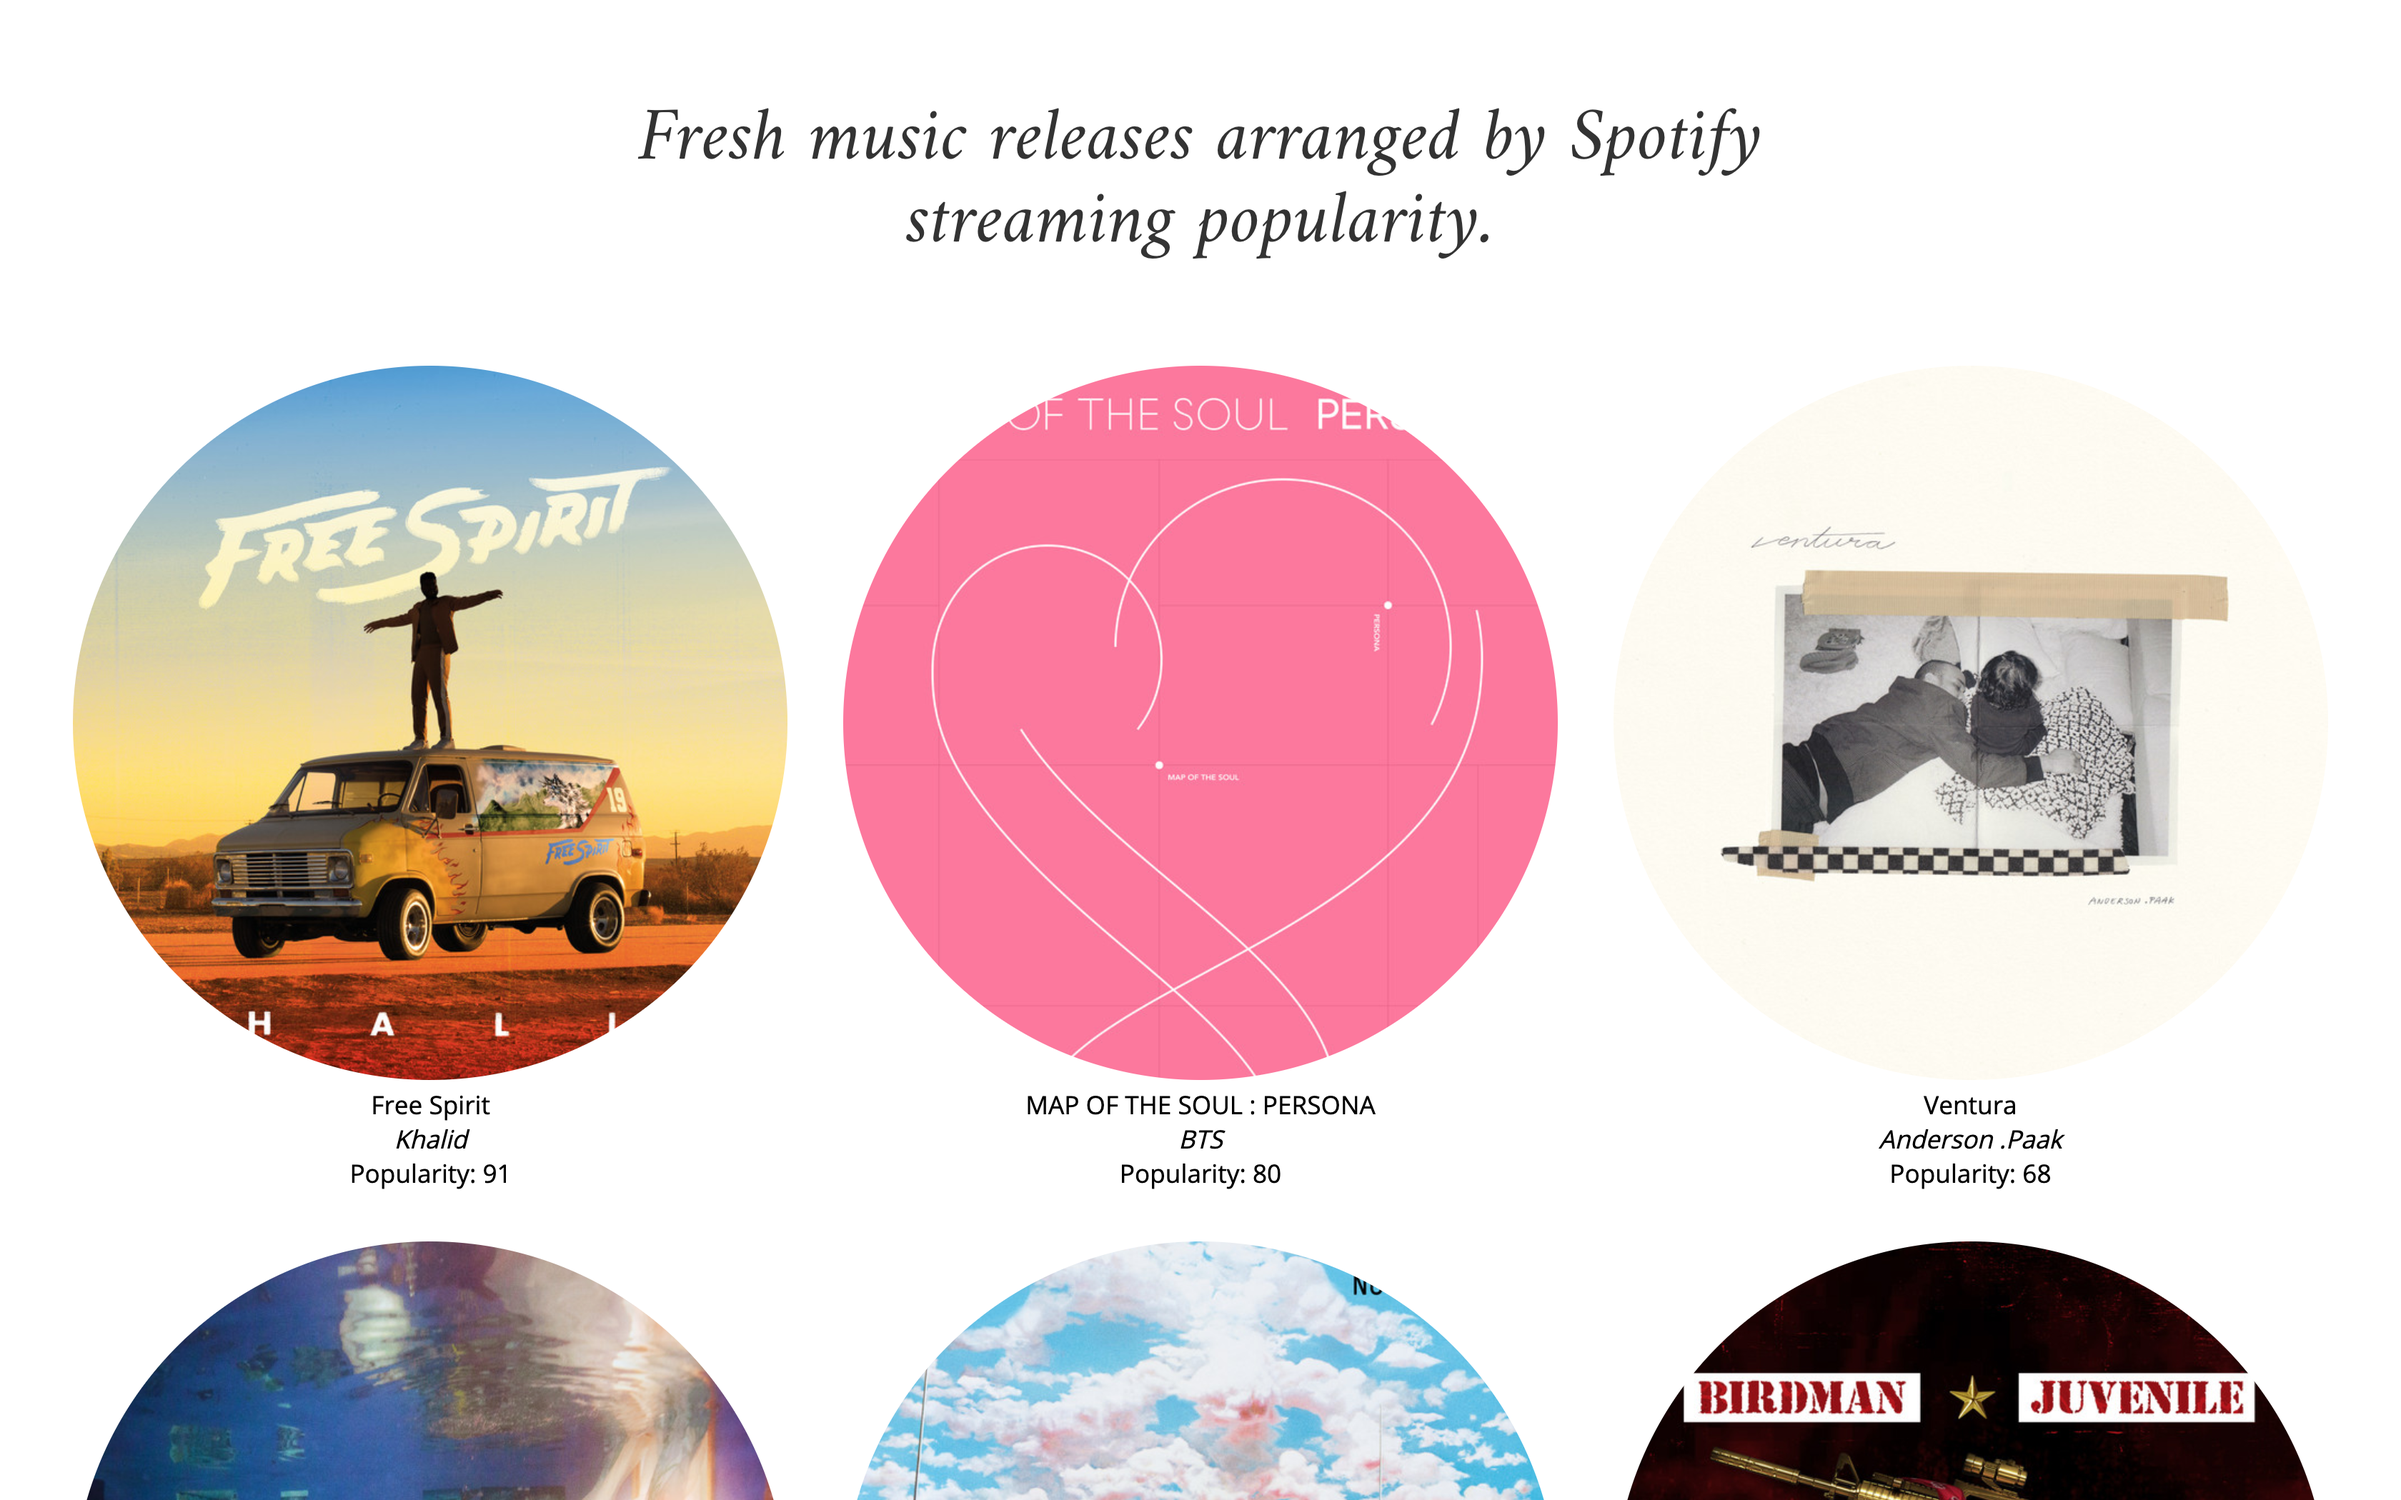
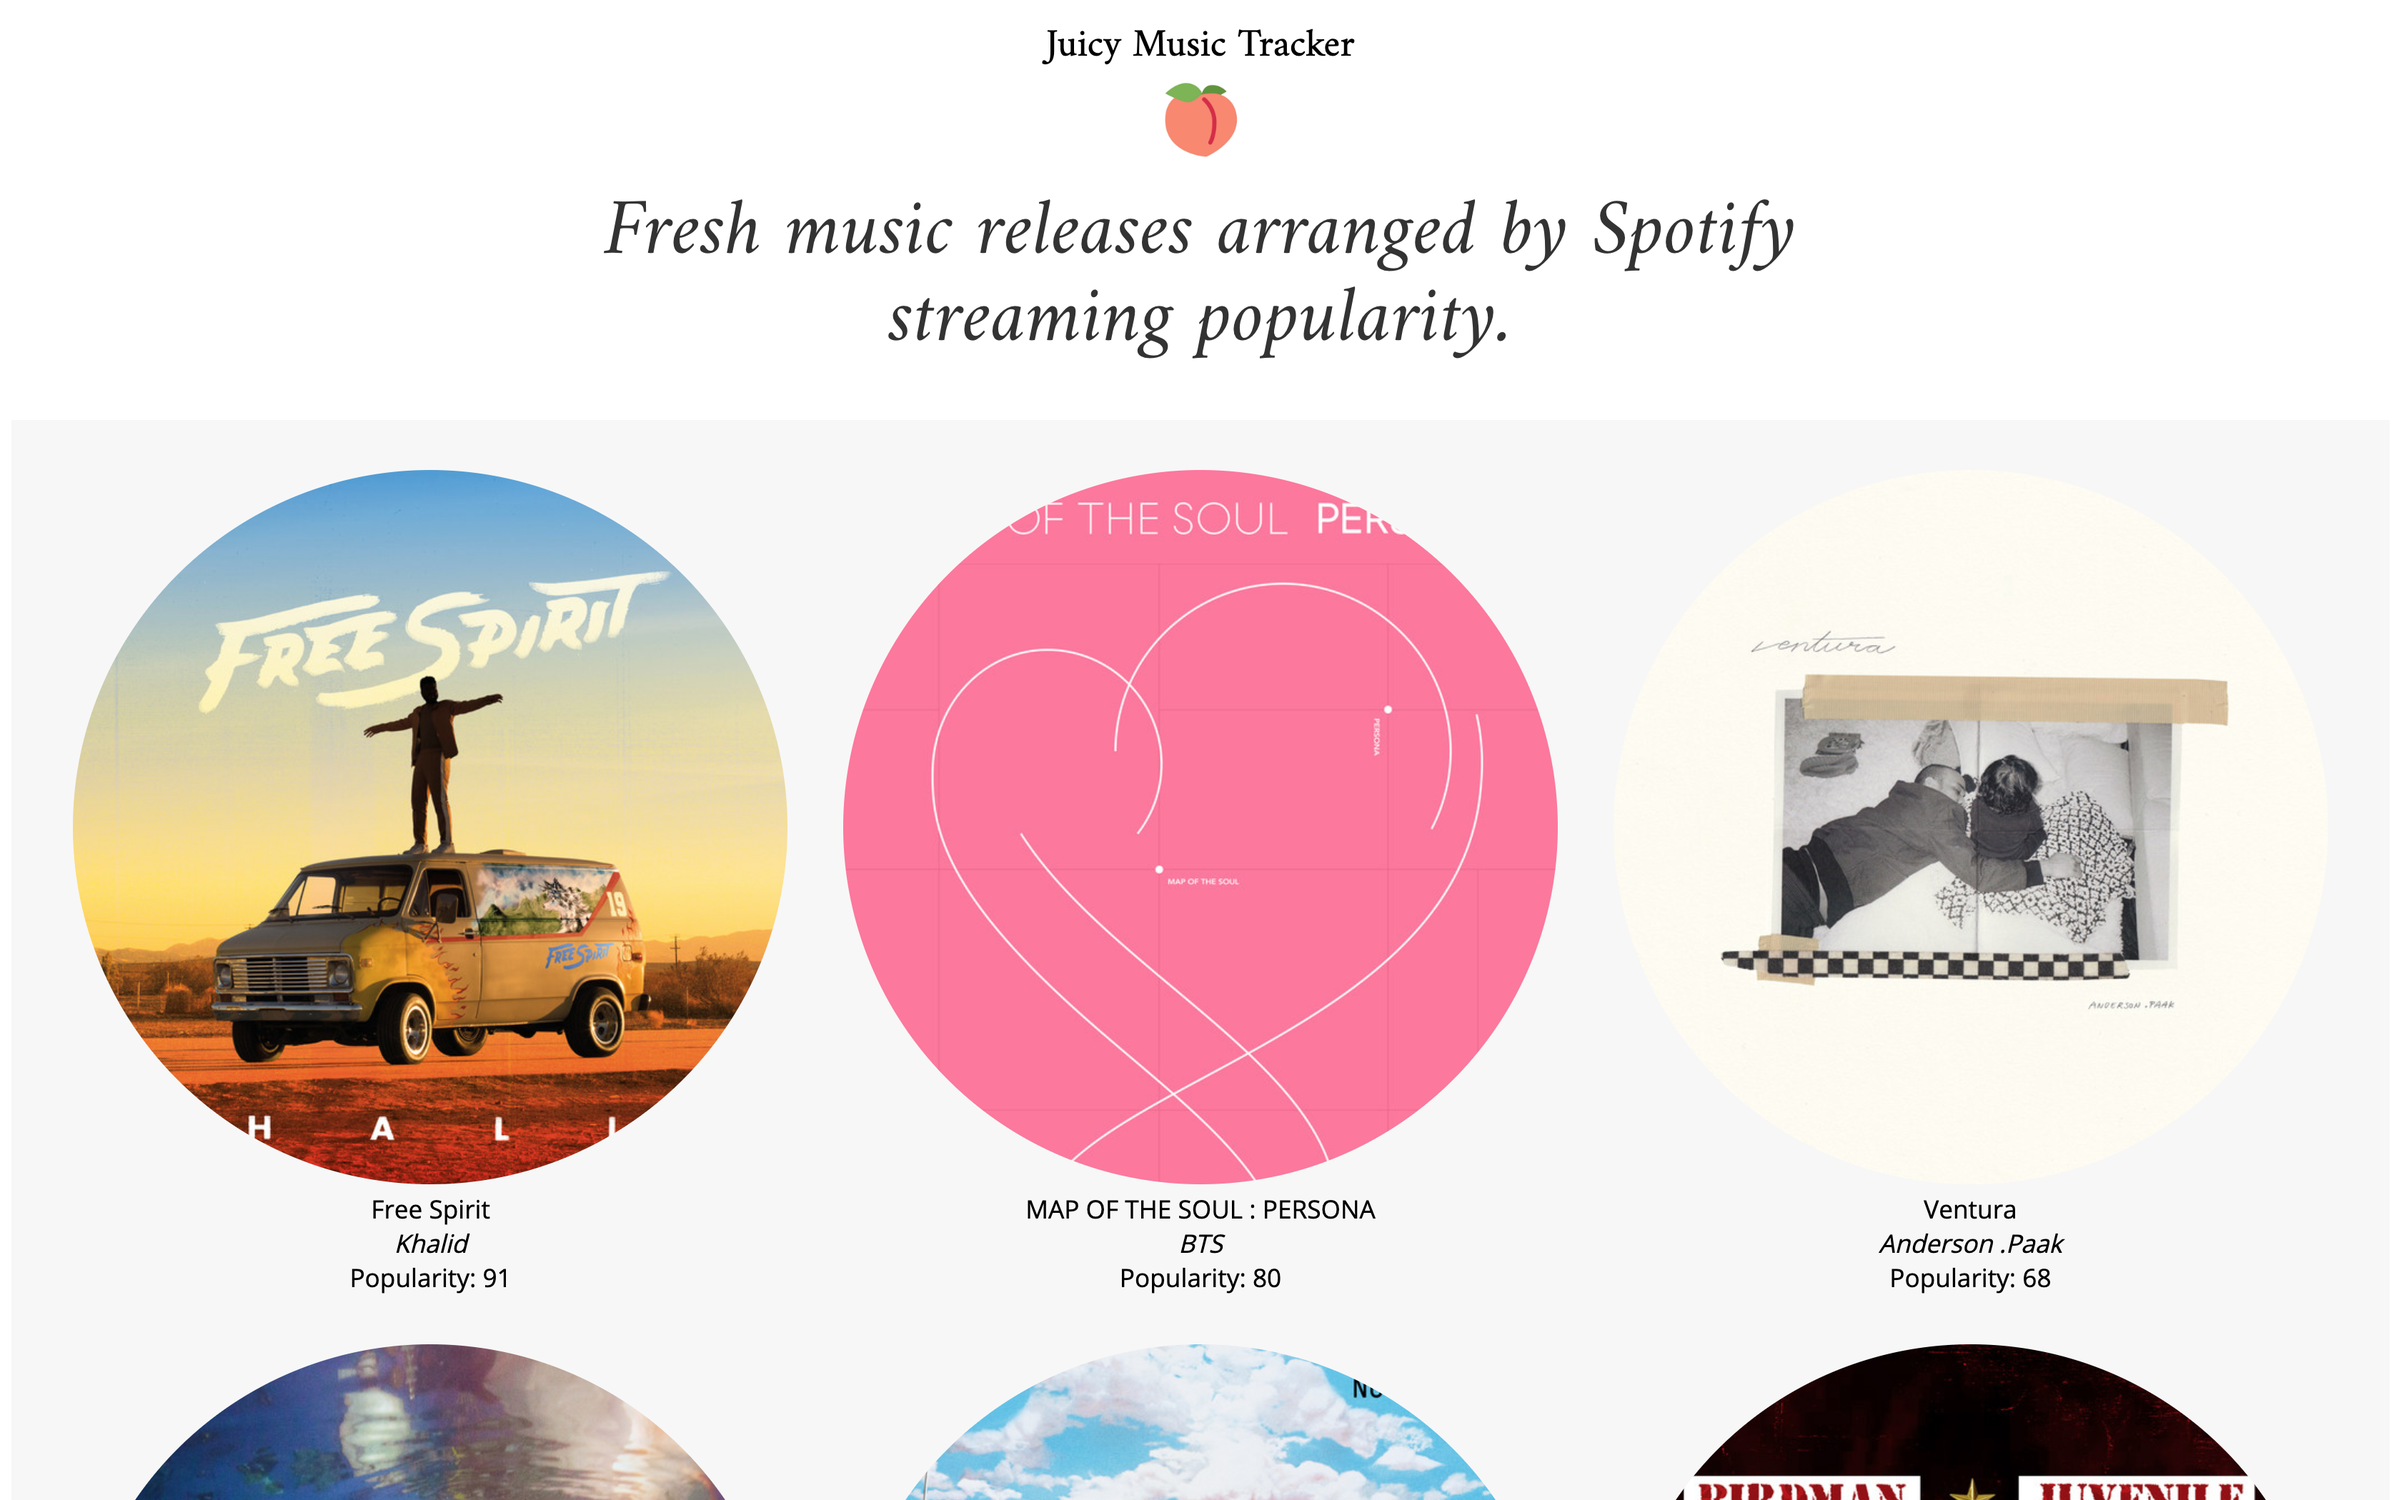
Add a nav bar and aesthetic changes

diff --git a/styles.css b/styles.css
@@ -8,12 +8,35 @@ h1 {
     max-width: 15em;
     line-height: 1.1;
     color: #333;
-    font-size: 3.3em;
+    font-size: 3.5em;
     font-weight: 200;
     font-family: 'Amiri';
     font-style: italic;
     -webkit-font-smoothing: antialiased;
     display: inline-block;
+}
+
+.nav_bar {
+    max-height: 1.5em;
+}
+
+.nav_bar_text {
+    text-align: center;
+    font-family: 'Amiri', serif;
+    font-weight: 100;
+    font-size: 1.7em;
+}
+
+.header_image_section {
+    padding-top: 25px;
+    text-align: center;
+}
+.header_image {
+    width: 90px;
+    height: auto;
+}
+.album_list {
+    background-color: #f7f7f7;
 }
 
 .album_entry {
@@ -29,6 +52,7 @@ h1 {
     font-style: italic;
 }
 .main_header {
+    margin-top: -50px;
     text-align: center;
 }
 

diff --git a/index.html b/index.html
@@ -14,6 +14,16 @@
 </head>
 <body onload="w3.sortHTML('#album_list1','.album_entry','div:nth-child(4)');
 w3.sortHTML('#album_list1','.album_entry','div:nth-child(4)')">
+<div class="nav_bar">
+    <a href="https://github.com/justinsingh/juicy-music-tracker" target="_blank">
+        <div class="nav_bar_text">Juicy Music Tracker</div>
+    </a>
+</div>
+<div class="header_image_section">
+    <a href="https://github.com/justinsingh/juicy-music-tracker" target="_blank">
+        <img class="header_image" src="images/peachv2.jpg"/>
+    </a>
+</div>
 <div class="main_header">
     <h1>Fresh music releases arranged by Spotify streaming popularity.</h1>
 </div>
